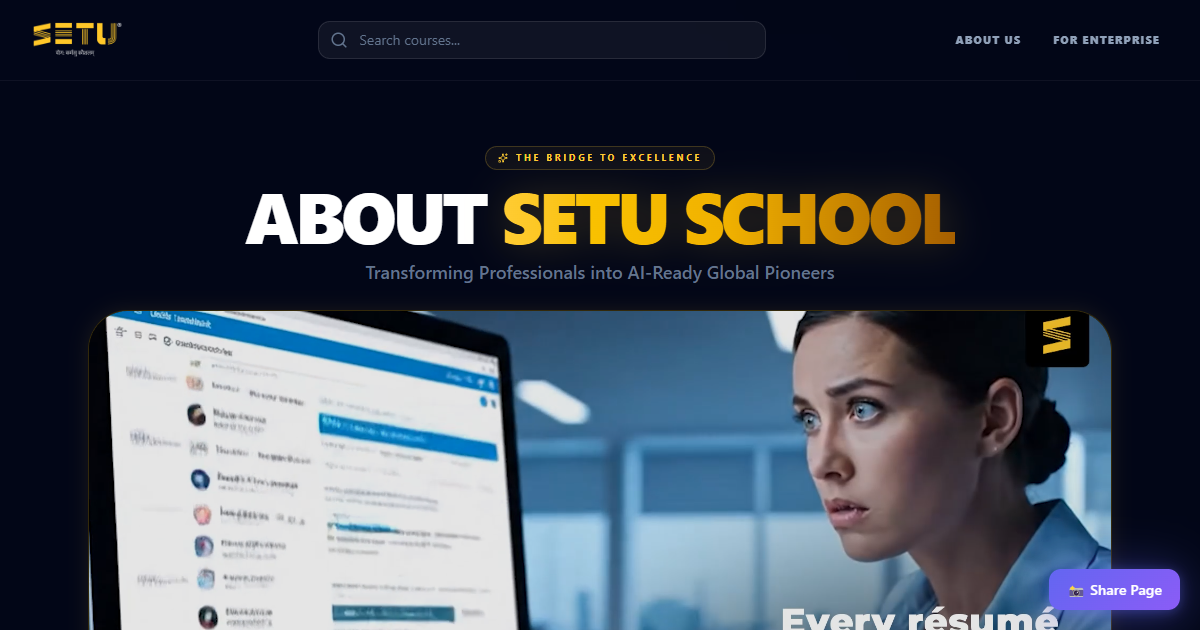
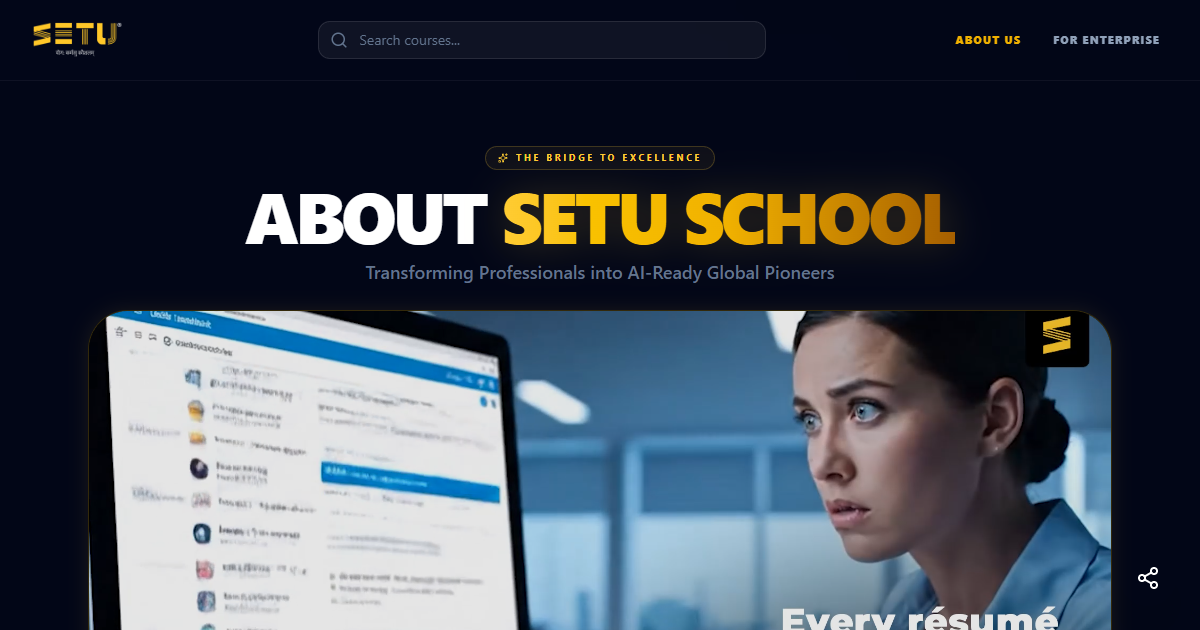
Restore Share Screenshot button and fix Prerender script local routes

diff --git a/src/components/ScreenshotShare.jsx b/src/components/ScreenshotShare.jsx
@@ -1,0 +1,117 @@
+import React, { useState } from 'react';
+import { Camera, Share2, Check, Download, Loader2 } from 'lucide-react';
+import html2canvas from 'html2canvas';
+
+// 📸 ScreenshotShare Component
+// Client-side screenshot sharing! Captures exactly what the user is currently looking at.
+
+const ScreenshotShare = () => {
+    const [isCapturing, setIsCapturing] = useState(false);
+    const [showOptions, setShowOptions] = useState(false);
+    const [copied, setCopied] = useState(false);
+
+    const captureAndShare = async () => {
+        try {
+            setIsCapturing(true);
+
+            // Hide the share button so it doesn't appear in the screenshot
+            const shareBtn = document.getElementById('screenshot-share-btn-wrapper');
+            if (shareBtn) shareBtn.style.display = 'none';
+
+            // Capture EXACTLY the current scrolled position
+            // Do NOT scroll to top. 
+            const canvas = await html2canvas(document.body, {
+                y: window.scrollY,
+                height: window.innerHeight,
+                windowHeight: window.innerHeight,
+                scale: 2, // High DPI
+                useCORS: true, // Allow cross-origin images (important for YouTube thumbs)
+                logging: false,
+                ignoreElements: (el) => el.tagName === 'IFRAME', // Iframes cause cross-origin errors in html2canvas
+            });
+
+            // Restore the share button
+            if (shareBtn) shareBtn.style.display = 'block';
+
+            // 1. Convert to a blob
+            const blob = await new Promise((resolve) =>
+                canvas.toBlob(resolve, 'image/png', 1.0)
+            );
+            if (!blob) throw new Error('Could not create image blob');
+
+            const file = new File([blob], 'setu-preview.png', { type: 'image/png' });
+            const currentUrl = window.location.href;
+            const shareTitle = document.title || 'SETU School of AI';
+
+            // 2. Try native Web Share API (Mobile: WhatsApp, iMessage, etc.)
+            // Mobile native share supports sharing an image file + text together!
+            if (navigator.canShare && navigator.canShare({ files: [file] })) {
+                await navigator.share({
+                    files: [file],
+                    title: shareTitle,
+                    text: `Check this out on SETU:\n\n`,
+                    url: currentUrl,
+                });
+                setIsCapturing(false);
+                return;
+            }
+
+            // 3. Desktop Fallback: Download the image and copy the link
+            const downloadLink = document.createElement('a');
+            downloadLink.href = URL.createObjectURL(blob);
+            downloadLink.download = 'setu-page-view.png';
+            document.body.appendChild(downloadLink);
+            downloadLink.click();
+            document.body.removeChild(downloadLink);
+
+            // Copy the URL to clipboard
+            await navigator.clipboard.writeText(currentUrl);
+            setCopied(true);
+            setTimeout(() => setCopied(false), 3000);
+
+        } catch (err) {
+            console.error('[ScreenshotShare] Error:', err);
+            // Ensure button is restored if it failed
+            const shareBtn = document.getElementById('screenshot-share-btn-wrapper');
+            if (shareBtn) shareBtn.style.display = 'block';
+            alert('Failed to capture screenshot. Please try again.');
+        } finally {
+            setIsCapturing(false);
+        }
+    };
+
+    return (
+        <div
+            id="screenshot-share-btn-wrapper"
+            className="fixed bottom-6 right-6 z-50 flex flex-col items-end"
+        >
+            <button
+                onClick={captureAndShare}
+                disabled={isCapturing}
+                title="Take a screenshot and share this view"
+                className={`group relative flex items-center justify-center p-4 rounded-full shadow-2xl transition-all duration-300 \${
+          isCapturing 
+            ? 'bg-emerald-600 cursor-not-allowed scale-95' 
+            : copied
+              ? 'bg-green-500 hover:bg-green-600 hover:scale-105'
+              : 'bg-indigo-600 hover:bg-indigo-700 hover:scale-110 hover:shadow-indigo-500/50'
+        } text-white`}
+            >
+                {isCapturing ? (
+                    <Loader2 className="w-6 h-6 animate-spin" />
+                ) : copied ? (
+                    <Check className="w-6 h-6" />
+                ) : (
+                    <Share2 className="w-6 h-6" />
+                )}
+
+                {/* Tooltip */}
+                <span className="absolute right-full mr-4 whitespace-nowrap px-3 py-2 bg-slate-800 text-slate-100 text-sm font-medium rounded-lg opacity-0 group-hover:opacity-100 transition-opacity pointer-events-none transform translate-x-2 group-hover:translate-x-0">
+                    {copied ? 'Link Copied & Image Downloaded!' : isCapturing ? 'Capturing view...' : 'Share this exact view'}
+                </span>
+            </button>
+        </div>
+    );
+};
+
+export default ScreenshotShare;

diff --git a/prerender/index.js b/prerender/index.js
@@ -1,4 +1,5 @@
 import puppeteer from 'puppeteer';
+import http from 'http';
 import fs from 'fs';
 import path from 'path';
 import { fileURLToPath } from 'url';
@@ -95,22 +96,51 @@ function collectPages() {
 // 📸 PHASE 1  — TAKE REAL SCREENSHOTS OF EVERY PAGE
 // ============================================================================
 async function takeScreenshots(pages) {
-    console.log('📸  Phase 1 — Taking screenshots from live site…\n');
+    console.log('📸  Phase 1 — Taking screenshots of local build…\n');
 
     if (!fs.existsSync(PREVIEWS_DIR)) {
         fs.mkdirSync(PREVIEWS_DIR, { recursive: true });
     }
 
+    // Spin up a quick file server for dist/
+    const MIME_TYPES = {
+        '.html': 'text/html',
+        '.js': 'text/javascript',
+        '.css': 'text/css',
+        '.png': 'image/png',
+        '.svg': 'image/svg+xml'
+    };
+
+    const server = http.createServer((req, res) => {
+        let url = req.url.split('?')[0];
+        if (url.startsWith('/new_setu')) {
+            url = url.substring('/new_setu'.length);
+        }
+        if (url === '' || url === '/') url = '/index.html';
+
+        let filePath = path.join(DIST_DIR, url);
+        if (!fs.existsSync(filePath) || fs.statSync(filePath).isDirectory()) {
+            filePath = path.join(DIST_DIR, 'index.html');
+        }
+
+        const ext = path.extname(filePath);
+        res.writeHead(200, { 'Content-Type': MIME_TYPES[ext] || 'application/octet-stream' });
+        fs.createReadStream(filePath).pipe(res);
+    }).listen(3000);
+
+    const localBaseUrl = 'http://localhost:3000/new_setu';
+
     const browser = await puppeteer.launch({
         headless: 'new',
-        args: ['--no-sandbox', '--disable-setuid-sandbox'],
+        args: ['--no-sandbox', '--disable-setuid-sandbox']
     });
 
     const page = await browser.newPage();
     await page.setViewport({ width: OG_W, height: OG_H });
 
     for (const p of pages) {
-        const url = `${BASE_URL}${p.path}`;
+        // Build the local URL
+        const url = `${localBaseUrl}${p.path === '/' ? '' : p.path}`;
         const outPath = path.join(PREVIEWS_DIR, p.screenshot);
 
         try {
@@ -118,6 +148,13 @@ async function takeScreenshots(pages) {
             await page.goto(url, { waitUntil: 'networkidle2', timeout: 30000 });
             // Let fonts / animations settle
             await new Promise(r => setTimeout(r, 1500));
+
+            // Hide the share button so it doesn't appear in Open Graph preview images
+            await page.evaluate(() => {
+                const btn = document.getElementById('screenshot-share-btn-wrapper');
+                if (btn) btn.style.display = 'none';
+            });
+
             await page.screenshot({
                 path: outPath,
                 type: 'png',
@@ -130,6 +167,7 @@ async function takeScreenshots(pages) {
     }
 
     await browser.close();
+    server.close();
     console.log(`\n  ✔  Screenshots saved to public/previews/\n`);
 }
 

diff --git a/src/App.jsx b/src/App.jsx
@@ -15,6 +15,7 @@ import Navbar from "./components/Navbar";
 import Footer from "./components/Footer";
 import PageTitleManager from "./utils/route_title";
 import { HelmetProvider } from "react-helmet-async";
+import ScreenshotShare from "./components/ScreenshotShare";
 
 // ============================================================================
 // 📄 IMPORT ALL PAGE COMPONENTS
@@ -139,6 +140,7 @@ function App() {
         {/* ========================================
                     FOOTER
                     ======================================== */}
+        <ScreenshotShare />
         <Footer />
 
       </div>
